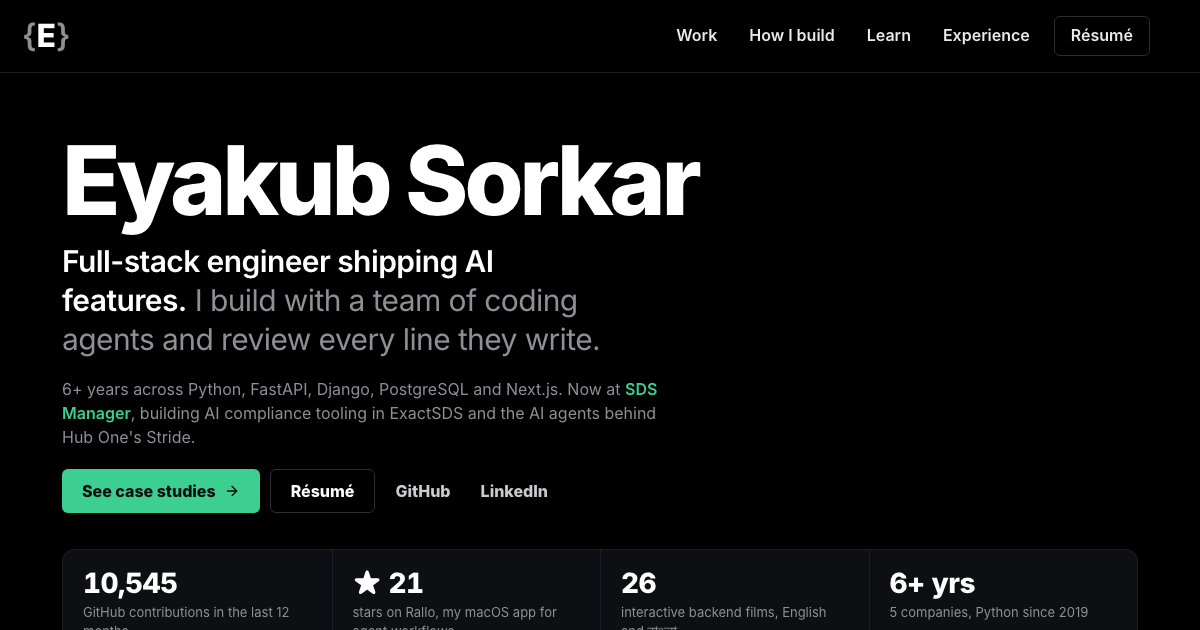
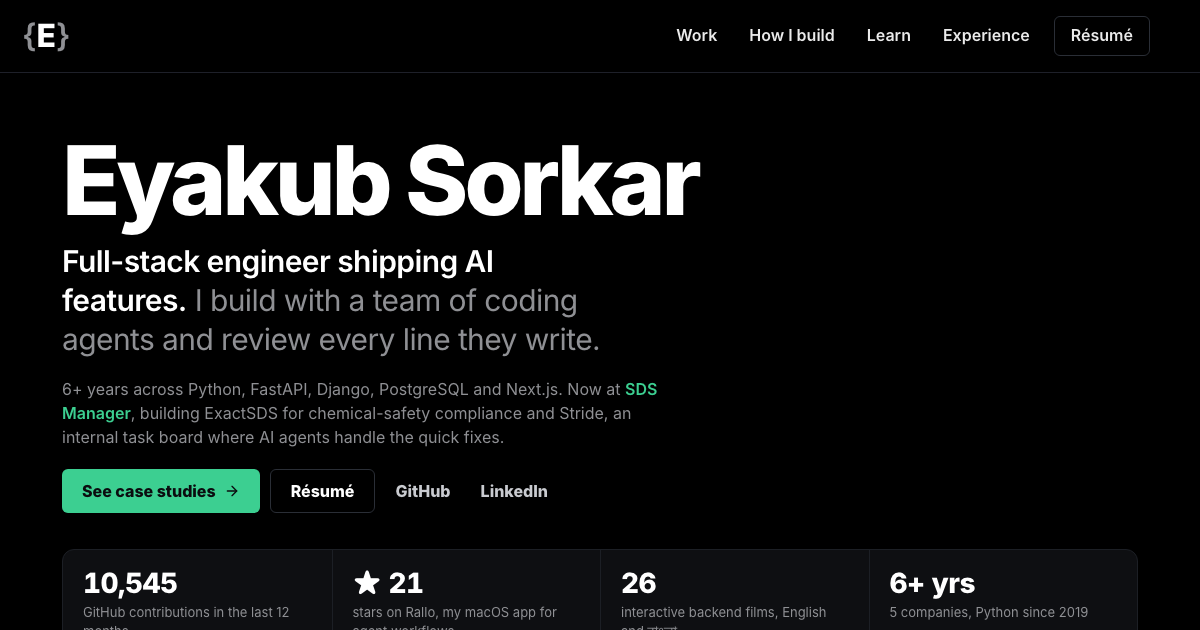
fix(work): Stride agents take quick tasks, the team builds complex work

Changed region(s): [[0.0617, 0.6333, 0.555, 0.7238]]

diff --git a/components/Introduction.js b/components/Introduction.js
@@ -36,7 +36,7 @@ export default function Introduction() {
           <Link href="https://sdsmanager.com/" isExternal color="button1" fontWeight="600">
             SDS Manager
           </Link>
-          , building AI compliance tooling in ExactSDS and the AI agents behind Hub One&apos;s Stride.
+          , building ExactSDS for chemical-safety compliance and Stride, an internal task board where AI agents handle the quick fixes.
         </Text>
       </Stack>
 
